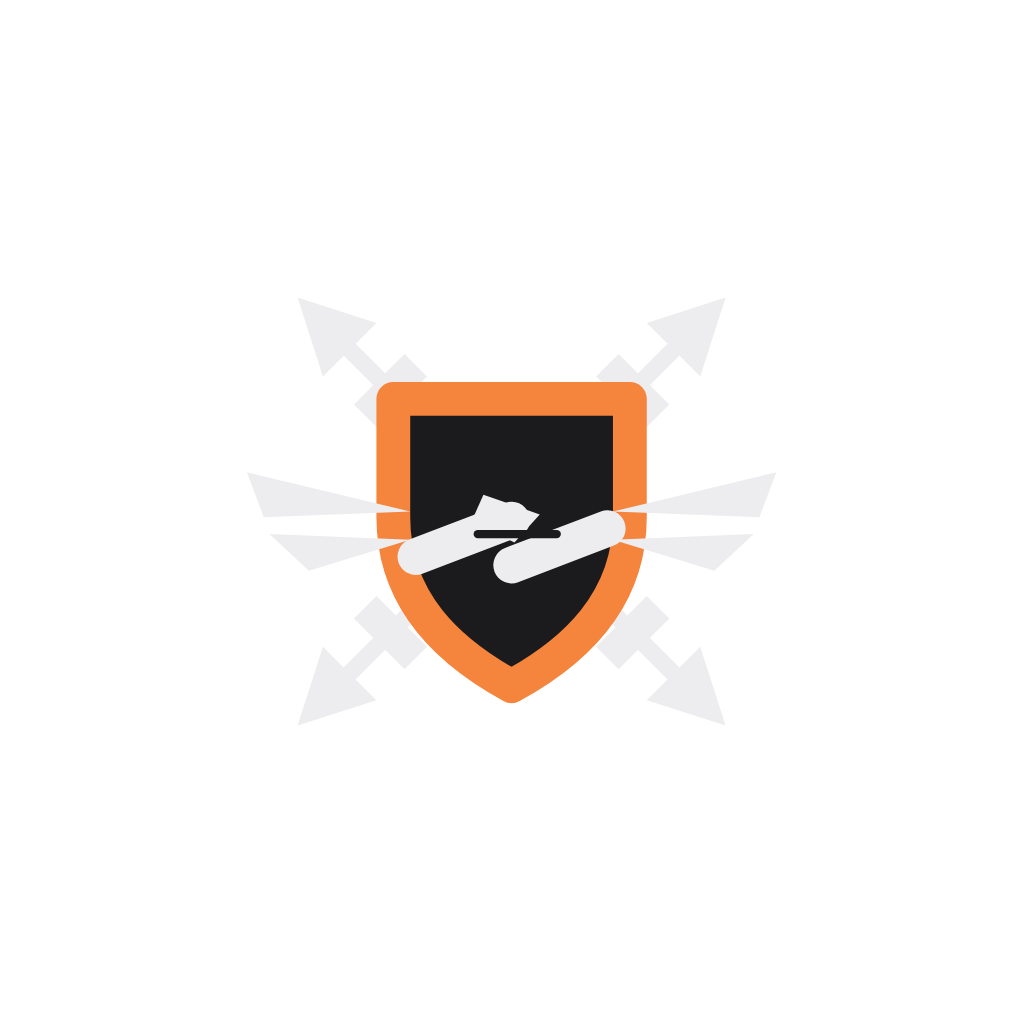
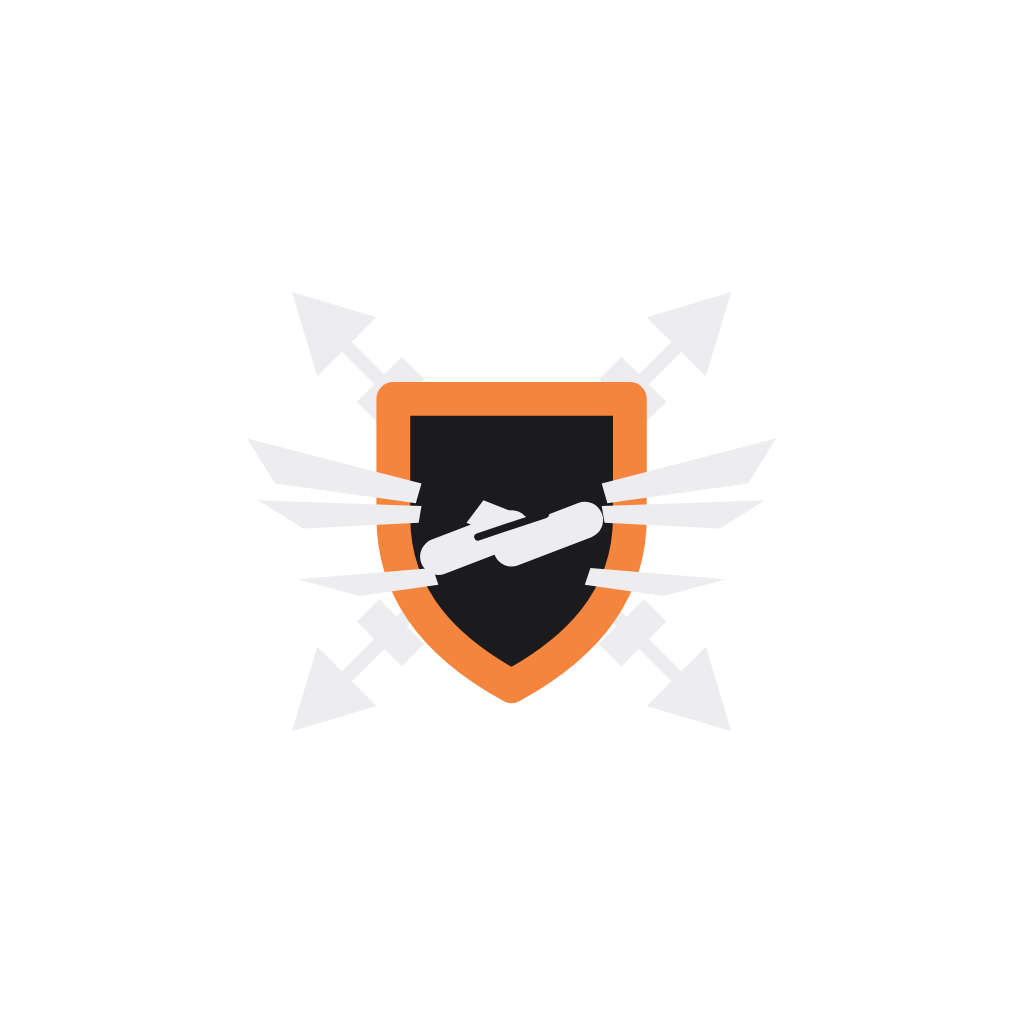
Affine l'emblème et régénère l'icône d'application
L'icône, le splash et le favicon ne reprennent que la partie haute du
logo (bouclier, flèches croisées, ailes, poignée de main), sans le
wordmark ni la baseline. Ailes retracées en trois plumes par côté et
pointes de flèches affinées.

Claude-Session: https://claude.ai/code/session_01Ex69kwCFmsvnwmNMjw6Jvk

Changed region(s): [[0.3438, 0.4688, 0.6562, 0.5938]]

diff --git a/src/components/Logo.tsx b/src/components/Logo.tsx
@@ -27,21 +27,21 @@ export function LogoMark({
   return (
     <Svg width={size} height={size} viewBox="0 0 200 200">
       {/* Flèches croisées, derrière le bouclier */}
-      <G stroke={metal} strokeWidth={6} strokeLinecap="round">
+      <G stroke={metal} strokeWidth={5} strokeLinecap="round">
         <Path d="M40 40 L160 160" />
         <Path d="M160 40 L40 160" />
       </G>
       <G fill={metal}>
         {/* Pointes */}
-        <Path d="M24 24 L52 33 L33 52 Z" />
-        <Path d="M176 24 L167 52 L148 33 Z" />
-        <Path d="M24 176 L33 148 L52 167 Z" />
-        <Path d="M176 176 L148 167 L167 148 Z" />
+        <Path d="M22 22 L52 31 L31 52 Z" />
+        <Path d="M178 22 L169 52 L148 31 Z" />
+        <Path d="M22 178 L31 148 L52 169 Z" />
+        <Path d="M178 178 L148 169 L169 148 Z" />
         {/* Empennages */}
-        <Path d="M44 62 L62 44 L70 52 L52 70 Z" />
-        <Path d="M156 62 L138 44 L130 52 L148 70 Z" />
-        <Path d="M44 138 L62 156 L70 148 L52 130 Z" />
-        <Path d="M156 138 L138 156 L130 148 L148 130 Z" />
+        <Path d="M45 61 L61 45 L69 53 L53 69 Z" />
+        <Path d="M155 61 L139 45 L131 53 L147 69 Z" />
+        <Path d="M45 139 L61 155 L69 147 L53 131 Z" />
+        <Path d="M155 139 L139 155 L131 147 L147 131 Z" />
       </G>
 
       {/* Bouclier */}
@@ -53,21 +53,23 @@ export function LogoMark({
         strokeLinejoin="round"
       />
 
-      {/* Ailes déployées */}
+      {/* Ailes déployées : trois plumes par côté */}
       <G fill={metal}>
-        <Path d="M6 86 L64 100 L12 102 Z" />
-        <Path d="M14 108 L64 110 L28 121 Z" />
-        <Path d="M194 86 L136 100 L188 102 Z" />
-        <Path d="M186 108 L136 110 L172 121 Z" />
+        <Path d="M68 90 L6 74 L16 90 L66 97 Z" />
+        <Path d="M68 98 L10 96 L26 106 L67 104 Z" />
+        <Path d="M72 120 L24 124 L46 130 L74 126 Z" />
+        <Path d="M132 90 L194 74 L184 90 L134 97 Z" />
+        <Path d="M132 98 L190 96 L174 106 L133 104 Z" />
+        <Path d="M128 120 L176 124 L154 130 L126 126 Z" />
       </G>
 
       {/* Poignée de main */}
       <G stroke={metal} strokeWidth={13} strokeLinecap="round">
-        <Path d="M66 116 L100 103" />
-        <Path d="M134 106 L100 119" />
+        <Path d="M74 116 L100 106" />
+        <Path d="M126 103 L100 113" />
       </G>
-      <Path d="M90 94 L110 101 L101 111 L86 103 Z" fill={metal} />
-      <Path d="M88 108 L116 108" stroke={fill} strokeWidth={3} strokeLinecap="round" />
+      <Path d="M90 96 L108 103 L100 111 L84 104 Z" fill={metal} />
+      <Path d="M88 109 L112 101" stroke={fill} strokeWidth={2.6} strokeLinecap="round" />
     </Svg>
   );
 }
